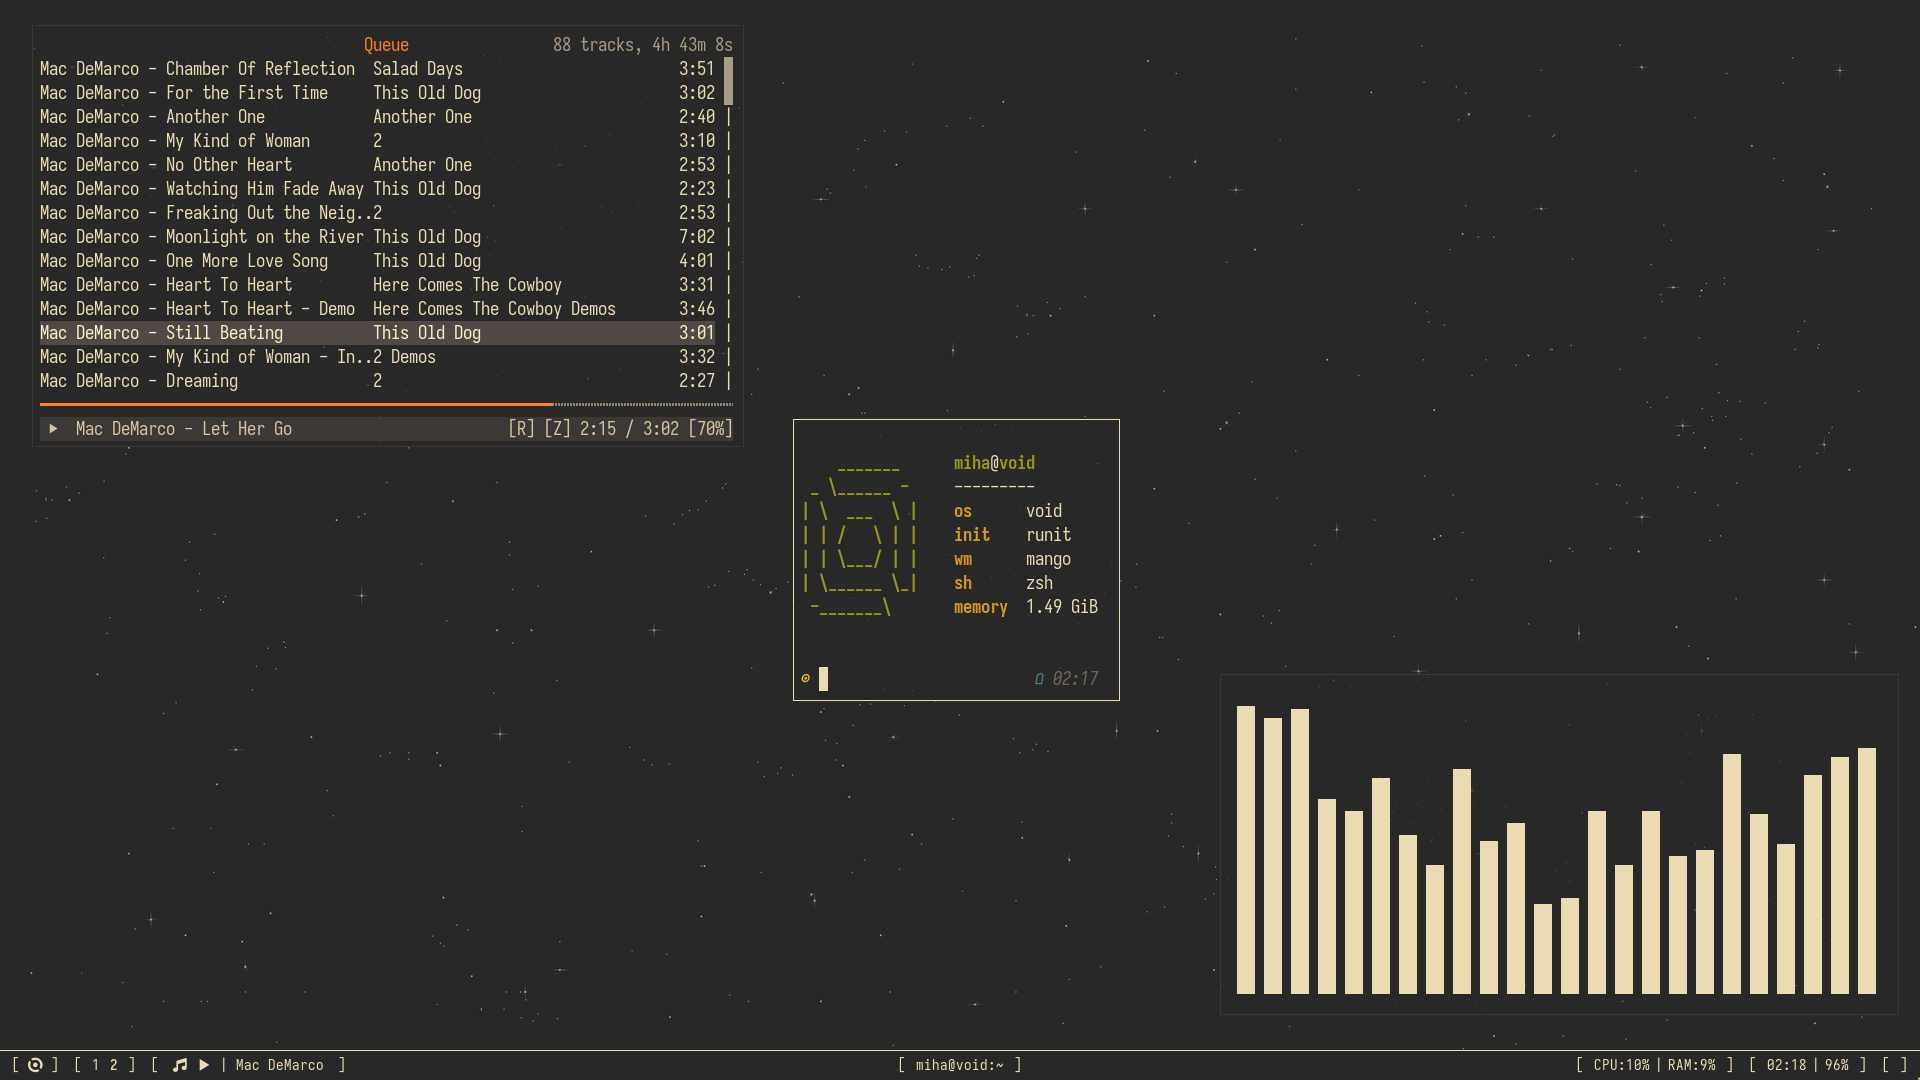
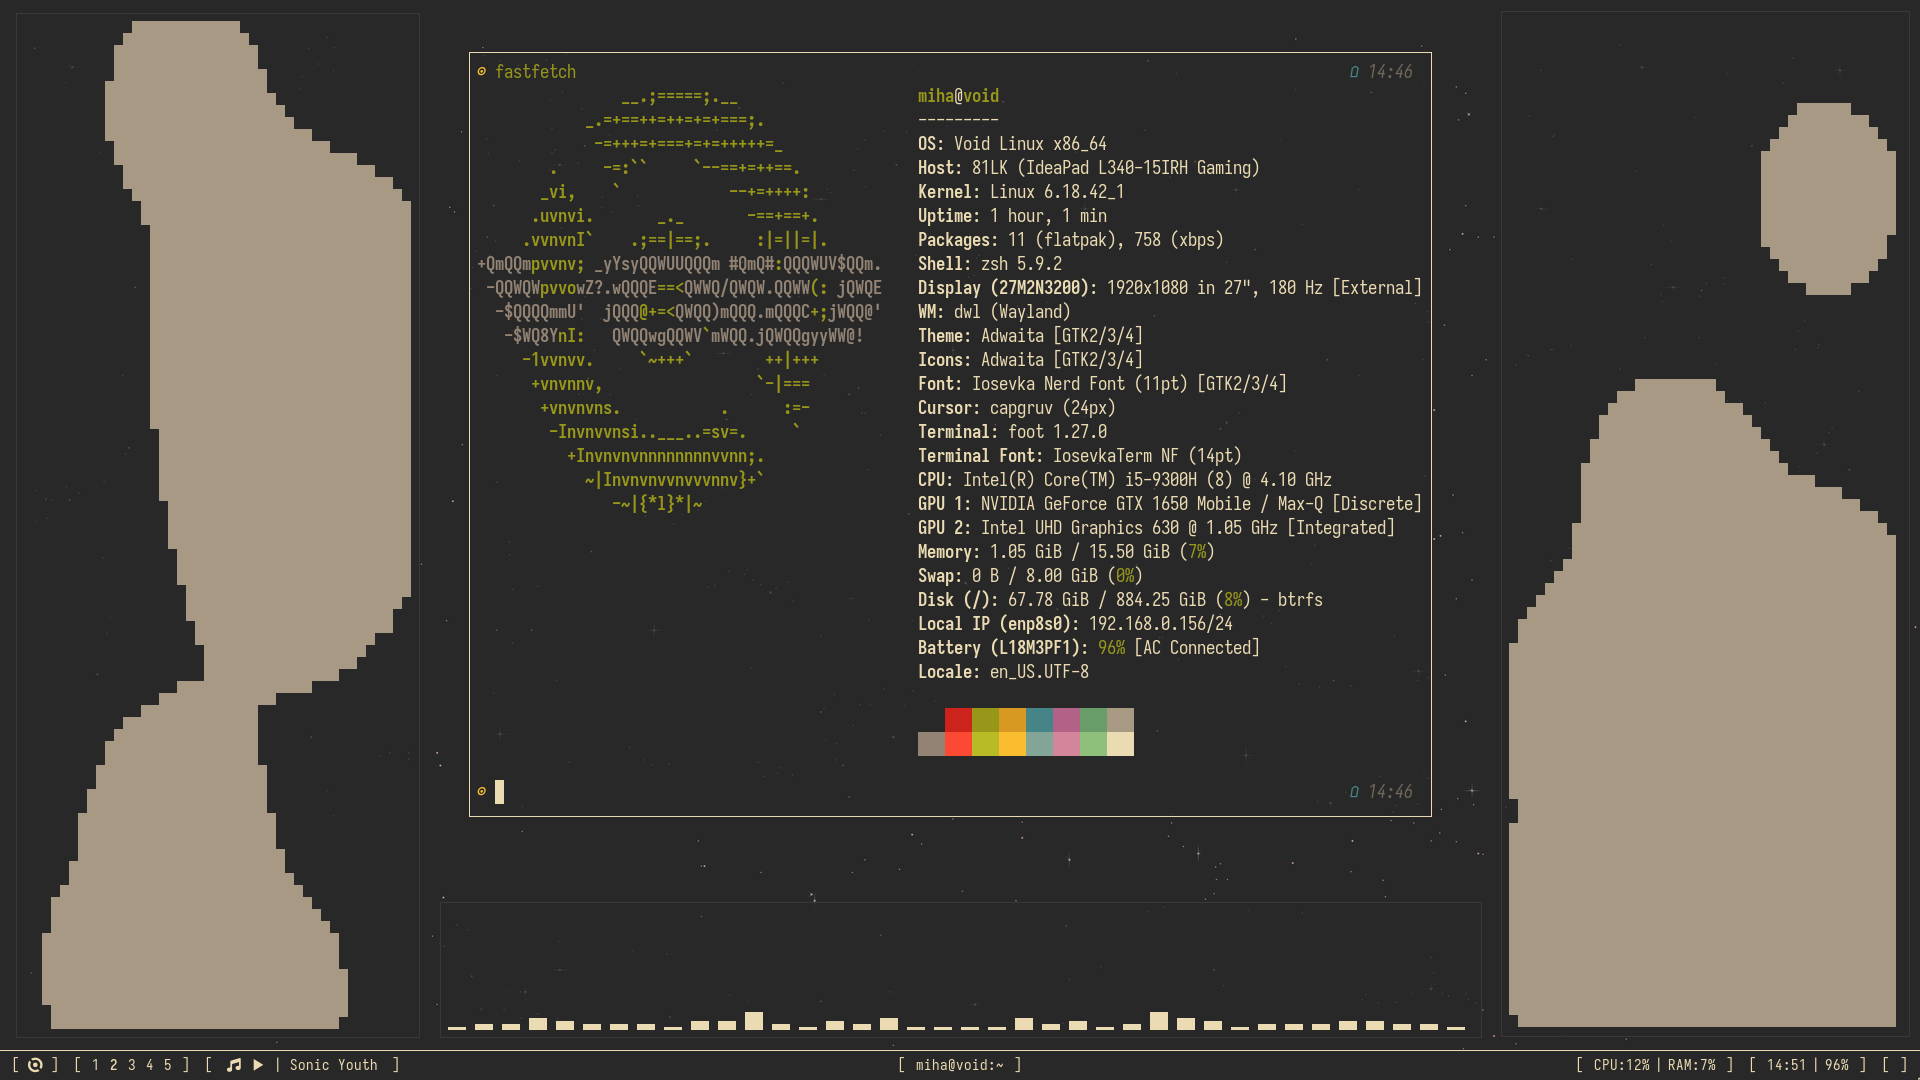
preview update

diff --git a/dwl/dwl/config.h b/dwl/dwl/config.h
@@ -153,6 +153,7 @@ static const Key keys[] = {
 	{ MODKEY|WLR_MODIFIER_SHIFT, XKB_KEY_Return,      spawn,            {.v = termcmd} },
 	{ MODKEY,                    XKB_KEY_v,           spawn,            SHCMD("cliphist list | rofi -dmenu | cliphist decode | wl-copy") },
 	{ MODKEY|WLR_MODIFIER_CTRL,  XKB_KEY_Return,      spawn,            {.v = zencmd} },
+	{ 0,                         XKB_KEY_Print,       spawn,            SHCMD("grim -g \"$(slurp)\" - | swappy -f -") },
 	{ MODKEY,                    XKB_KEY_j,           focusstack,       {.i = +1} },
 	{ MODKEY,                    XKB_KEY_k,           focusstack,       {.i = -1} },
 	{ MODKEY,                    XKB_KEY_i,           incnmaster,       {.i = +1} },
